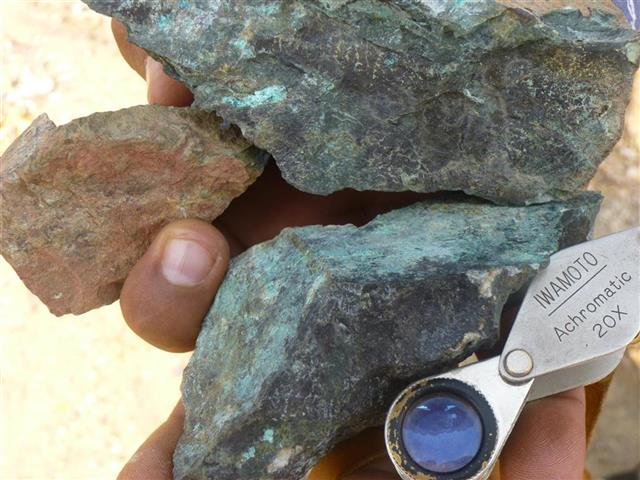
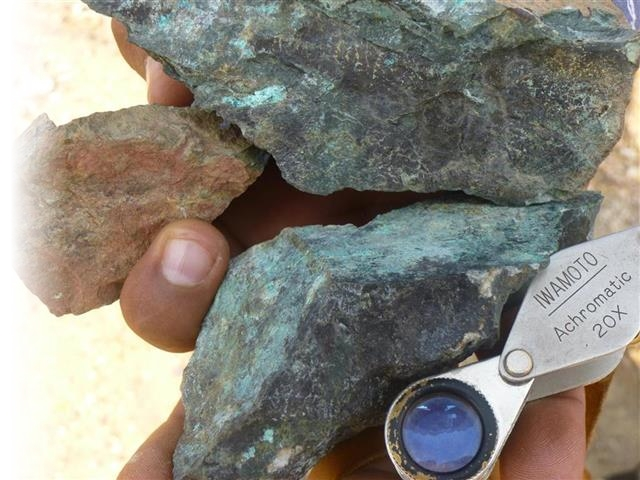
copper gradient

Changed region(s): [[0.0, 0.0, 0.0938, 1.0]]

diff --git a/projects.html b/projects.html
@@ -69,7 +69,7 @@
   </div>
 
     <!-- Main jumbotron for a primary marketing message or call to action -->
-    <div class="jumbotron" style="background-image:url(/assets/img/cobre.jpg); background-repeat:no-repeat; background-position: right 50%; margin: 0 auto; background-size: auto">
+    <div class="jumbotron" style="background: -webkit-radial-gradient(left center, ellipse cover, rgba(255,255,255,0.2) 0%,rgba(0,0,0,0.5) 90%), url(/assets/img/cobre.jpg); background-repeat:no-repeat; background-position: right 50%; margin: 0 auto; background-size: auto;">
       <div class="container">
         <div style="color:#222222; border: 5px 5px 5px 5px; width: auto">
         <h1>On-going projects</h1>
